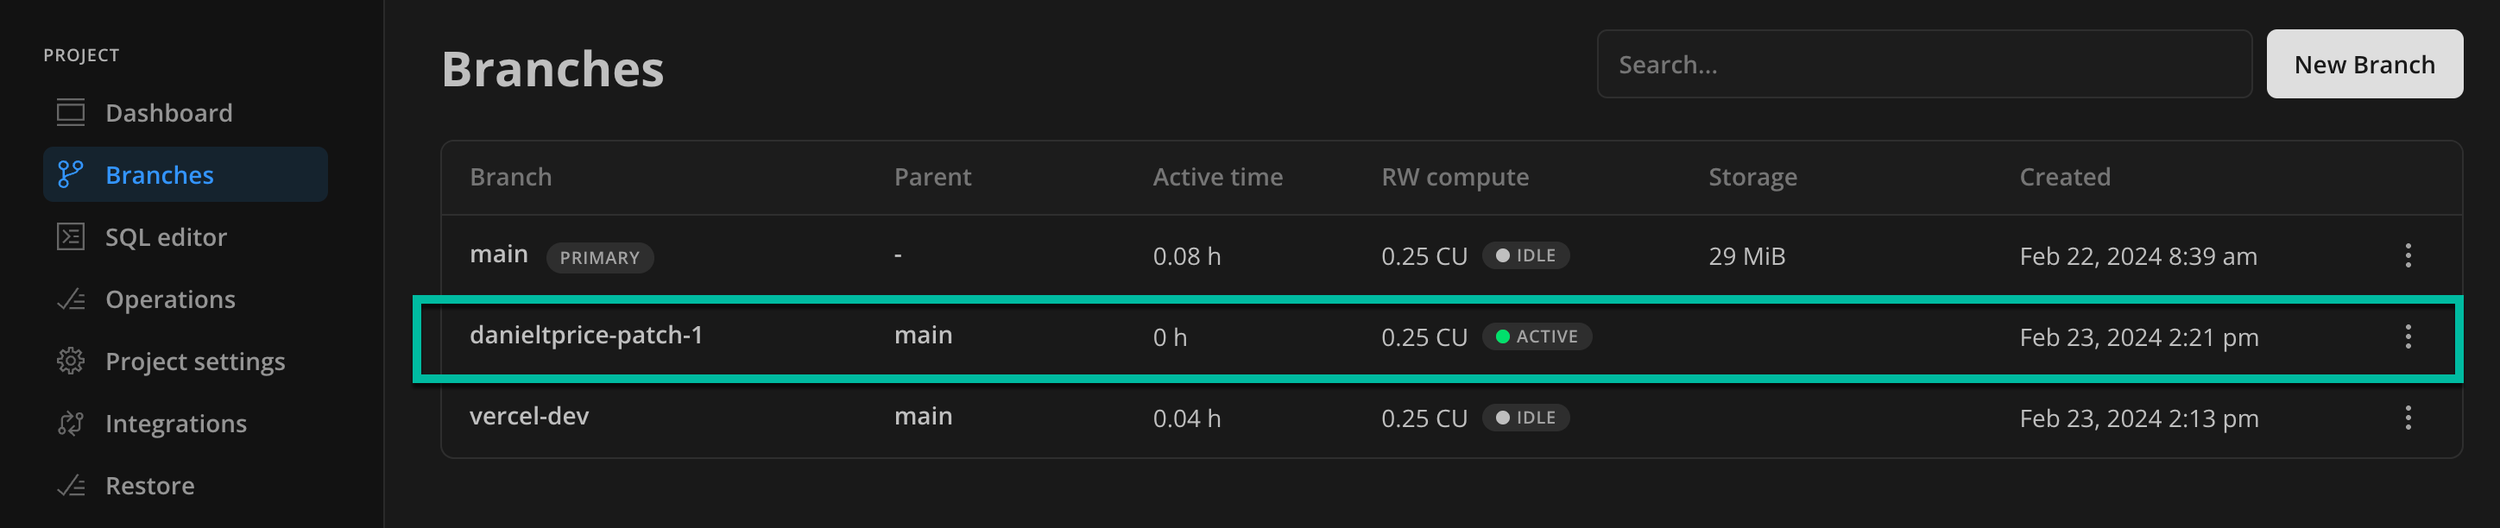
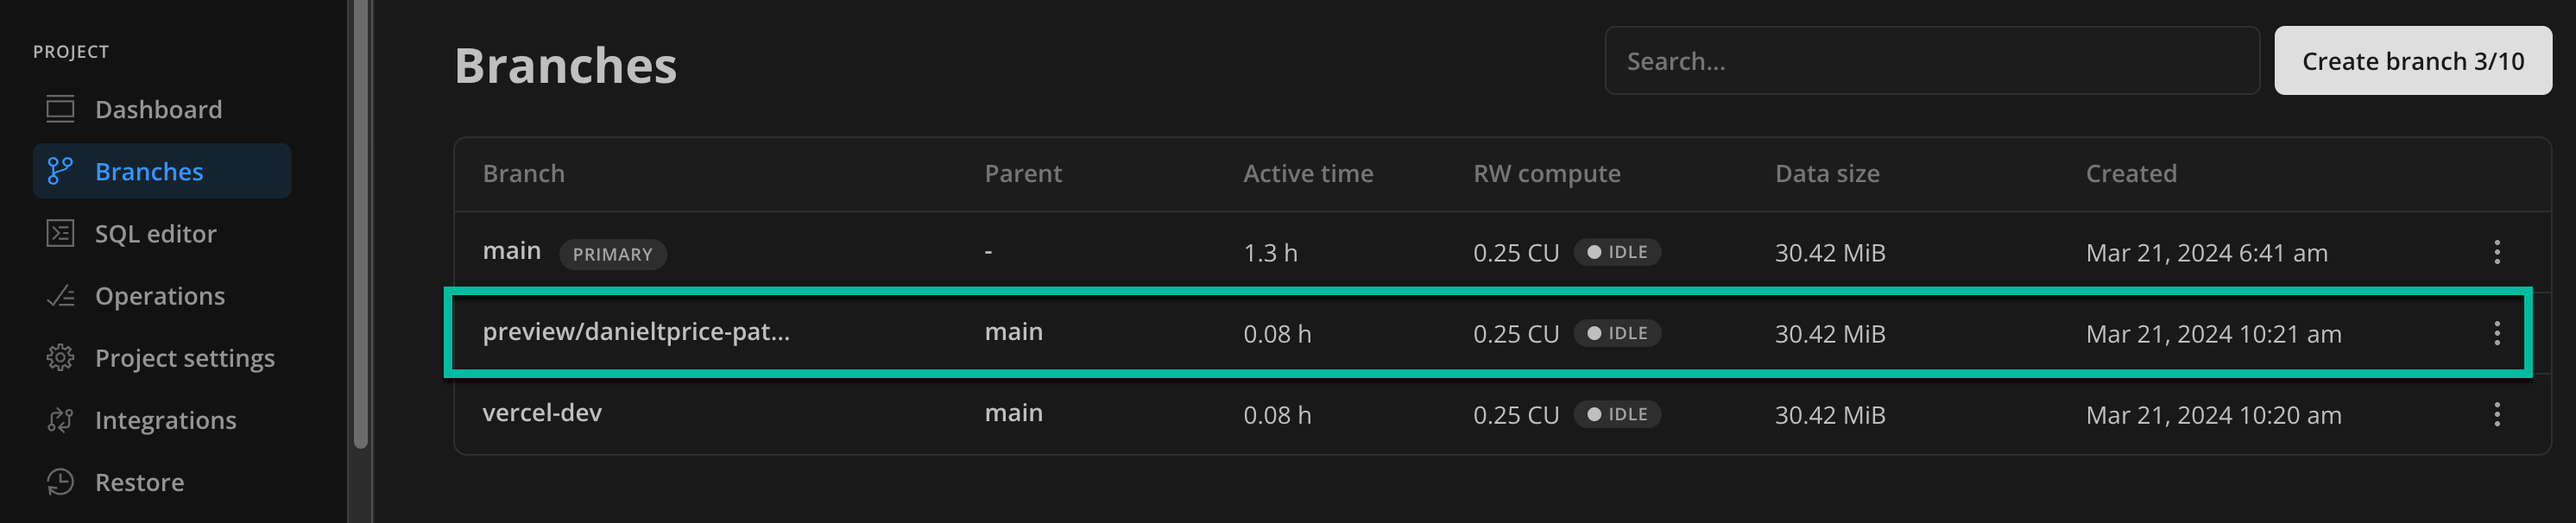
Change "Neon console" to "Neon Console" for consistency

diff --git a/content/docs/manage/roles.md b/content/docs/manage/roles.md
@@ -9,7 +9,7 @@ updatedOn: '2024-02-16T18:37:19.449Z'
 
 In Neon, roles are Postgres roles. Each Neon project is created with a default Postgres role that takes its name from your Neon account (the email, GitHub, Google, or partner account that you registered with). This role owns the ready-to-use database (`neondb`) that is created in your Neon project's primary branch.
 
-Your default Postgres role and roles created in the Neon console, API, and CLI are granted membership in the [neon_superuser](#the-neonsuperuser-role) role. Roles created with SQL from clients like [psql](/docs/connect/query-with-psql-editor), [pgAdmin](https://www.pgadmin.org/), or the [Neon SQL Editor](/docs/get-started-with-neon/query-with-neon-sql-editor) are only granted the basic [public schema privileges](/docs/manage/database-access#public-schema-privileges) granted to newly created roles in a standalone Postgres installation. These users must be selectively granted permissions for each database object. For more information, see [Manage database access](/docs/manage/database-access).
+Your default Postgres role and roles created in the Neon Console, API, and CLI are granted membership in the [neon_superuser](#the-neonsuperuser-role) role. Roles created with SQL from clients like [psql](/docs/connect/query-with-psql-editor), [pgAdmin](https://www.pgadmin.org/), or the [Neon SQL Editor](/docs/get-started-with-neon/query-with-neon-sql-editor) are only granted the basic [public schema privileges](/docs/manage/database-access#public-schema-privileges) granted to newly created roles in a standalone Postgres installation. These users must be selectively granted permissions for each database object. For more information, see [Manage database access](/docs/manage/database-access).
 
 <Admonition type="note">
 Neon is a managed Postgres service, so you cannot access the host operating system, and you can't connect using the Postgres `superuser` account like you can in a standalone Postgres installation.
@@ -21,14 +21,14 @@ In Neon, roles belong to a branch, which could be your main branch or a child br
 
 Neon supports creating and managing roles from the following interfaces:
 
-- [Neon console](#manage-roles-in-the-neon-console)
+- [Neon Console](#manage-roles-in-the-neon-console)
 - [Neon CLI](#manage-roles-with-the-neon-cli)
 - [Neon API](#manage-roles-with-the-neon-api)
 - [SQL](#manage-roles-with-sql)
 
 ## The neon_superuser role
 
-Roles created in the Neon console, CLI, or API, including the default role created with a Neon project, are granted membership in the `neon_superuser` role. Users cannot login as `neon_superuser`, but they inherit the privileges assigned to this role. The privileges and predefined role memberships granted to `neon_superuser` include:
+Roles created in the Neon Console, CLI, or API, including the default role created with a Neon project, are granted membership in the `neon_superuser` role. Users cannot login as `neon_superuser`, but they inherit the privileges assigned to this role. The privileges and predefined role memberships granted to `neon_superuser` include:
 
 - `CREATEDB`: Provides the ability to create databases.
 - `CREATEROLE`: Provides the ability to create new roles (which also means it can alter and drop roles).
@@ -49,9 +49,9 @@ You can think of roles with `neon_superuser` privileges as administrator roles. 
 Creating a database with the `neon_superuser` role, altering a database to have owner `neon_superuser`, and altering the `neon_superuser role` itself are _not_ permitted. This `NOLOGIN` role is not intended to be used directly or modified.
 </Admonition>
 
-## Manage roles in the Neon console
+## Manage roles in the Neon Console
 
-This section describes how to create, view, and delete roles in the Neon Console. All roles created in the Neon console are granted membership in the [neon_superuser](#the-neonsuperuser-role) role.
+This section describes how to create, view, and delete roles in the Neon Console. All roles created in the Neon Console are granted membership in the [neon_superuser](#the-neonsuperuser-role) role.
 
 ### Create a role
 

diff --git a/content/docs/guides/liquibase-workflow.md b/content/docs/guides/liquibase-workflow.md
@@ -72,7 +72,7 @@ To create a branch:
 
 ## Retrieve your Neon database connection strings
 
-From the [Neon console](https://console.neon.tech/app/projects), select your project and retrieve connection strings for your target and source databases from the **Connection Details** widget on the Neon **Dashboard**.
+From the [Neon Console](https://console.neon.tech/app/projects), select your project and retrieve connection strings for your target and source databases from the **Connection Details** widget on the Neon **Dashboard**.
 
 <Admonition type="note">
 The target database is the database on your `dev1` branch where you will will do your development work. Your source database is where you will apply your schema changes later, once you are satisfied with the changes on your development branch.
@@ -257,7 +257,7 @@ When you run a changeset for the first time, Liquibase automatically creates two
 - [databasechangelog](https://docs.liquibase.com/concepts/tracking-tables/databasechangelog-table.html): Tracks which changesets have been run.
 - [databasechangeloglock](https://docs.liquibase.com/concepts/tracking-tables/databasechangeloglock-table.html): Ensures only one instance of Liquibase runs at a time.
 
-You can verify these tables were created by viewing the `blog` database on your `dev1` branch on the **Tables** page in the Neon console. Select **Tables** from the sidebar.
+You can verify these tables were created by viewing the `blog` database on your `dev1` branch on the **Tables** page in the Neon Console. Select **Tables** from the sidebar.
 </Admonition>
 
 At this point, you can continue to iterate, applying schema changes to your database, until you are satisfied with the modified schema.
@@ -448,7 +448,7 @@ Liquibase command 'update' was executed successfully.
 
 </details>
 
-To ensure that all changes have been applied to the production database, you can rerun the `status`, `updatedSql`, and `diff` commands you ran above. After applying the change, there should be no differences. You can also check your databases in the **Tables** view in the Neon console to verify that the source database now has a `comments` table.
+To ensure that all changes have been applied to the production database, you can rerun the `status`, `updatedSql`, and `diff` commands you ran above. After applying the change, there should be no differences. You can also check your databases in the **Tables** view in the Neon Console to verify that the source database now has a `comments` table.
 
 <Admonition type="note">
 When you run a changeset for the first time on the source database, you will find that Liquibase automatically creates the [databasechangelog](https://docs.liquibase.com/concepts/tracking-tables/databasechangelog-table.html) and [databasechangeloglock](https://docs.liquibase.com/concepts/tracking-tables/databasechangeloglock-table.html) tracking tables that were created in your development database. These tracking tables are created on any database where you apply changesets.

diff --git a/content/docs/manage/endpoints.md b/content/docs/manage/endpoints.md
@@ -160,7 +160,7 @@ Please be aware that restarting a compute endpoint interrupts any connections cu
 
 You can restart a compute endpoint using one of the following methods:
 
-- Stop activity on your compute endpoint (stop running queries) and wait for your compute endpoint to suspend due to inactivity. By default, Neon suspends a compute after 5 minutes of inactivity. You can watch the status of your compute on the **Branches** page in the Neon console. Select your branch and monitor your compute's **Status** field. Wait for it to report an `Idle` status. The compute will restart the next time it's accessed, and the status will change to `Active`. 
+- Stop activity on your compute endpoint (stop running queries) and wait for your compute endpoint to suspend due to inactivity. By default, Neon suspends a compute after 5 minutes of inactivity. You can watch the status of your compute on the **Branches** page in the Neon Console. Select your branch and monitor your compute's **Status** field. Wait for it to report an `Idle` status. The compute will restart the next time it's accessed, and the status will change to `Active`. 
 - Issue [Suspend endpoint](https://api-docs.neon.tech/reference/suspendprojectendpoint) and [Start endpoint](https://api-docs.neon.tech/reference/startprojectendpoint) API calls. You can do this directly from the [Neon API Reference](https://api-docs.neon.tech/reference/getting-started-with-neon-api), using the **Try It!** feature. You'll need an [API key](https://neon.tech/docs/manage/api-keys#create-an-api-key).
 - Users on paid plans can temporarily set a compute's **Suspend compute after a period of inactivity** setting to 1 second to initiate a restart (the default setting is 5 minutes). See [Autosuspend configuration](/docs/manage/endpoints#auto-suspend-configuration) for instructions. After doing so, check the **Operations** page in the Neon Console to see if your compute endpoint restarted. Look for `suspend_compute` and `start_compute` actions.
 

diff --git a/content/docs/import/import-from-postgres.md b/content/docs/import/import-from-postgres.md
@@ -106,7 +106,7 @@ After migrating your data, update your applications to connect to your new datab
 
 ## Database object ownership considerations
 
-Roles created in the Neon console, including the default role created with your Neon project, are automatically granted membership in the [neon_superuser](/docs/manage/roles#the-neonsuperuser-role) role. This role can create roles and databases, select from all tables and views, and insert, update, or delete data in all tables. However, the `neon_superuser` is not a PostgreSQL `superuser`. It cannot run `ALTER OWNER` statements to grant ownership of database objects. As a result, if you granted ownership of database objects in your source database to different roles, your dump file will contain `ALTER OWNER` statements, and those statements will cause non-fatal errors when you restore data to your Neon database.
+Roles created in the Neon Console, including the default role created with your Neon project, are automatically granted membership in the [neon_superuser](/docs/manage/roles#the-neonsuperuser-role) role. This role can create roles and databases, select from all tables and views, and insert, update, or delete data in all tables. However, the `neon_superuser` is not a PostgreSQL `superuser`. It cannot run `ALTER OWNER` statements to grant ownership of database objects. As a result, if you granted ownership of database objects in your source database to different roles, your dump file will contain `ALTER OWNER` statements, and those statements will cause non-fatal errors when you restore data to your Neon database.
 
 <Admonition type="note">
 Regardless of `ALTER OWNER` statement errors, a restore operation still succeeds because assigning ownership is not necessary for the data itself to be restored. The restore operation will still create tables, import data, and create other objects.

diff --git a/content/docs/guides/flyway.md b/content/docs/guides/flyway.md
@@ -107,7 +107,7 @@ Migrating schema "PUBLIC" to version 1 - Create person table
 Successfully applied 1 migration to schema "PUBLIC" (execution time 00:00.033s)
 ```
 
-To verify that the `person` table was created, you can view it on the **Tables** page in the Neon console. Select **Tables** from the sidebar and select your database.
+To verify that the `person` table was created, you can view it on the **Tables** page in the Neon Console. Select **Tables** from the sidebar and select your database.
 
 ## Add a second migration
 
@@ -136,7 +136,7 @@ Successfully applied 1 migration to schema "public", now at version v2 (executio
 A Flyway report has been generated here: /home/alex/flyway-x.y.z/sql/report.html
 ```
 
-You can verify that the data was added by viewing the table on the **Tables** page in the Neon console. Select **Tables** from the sidebar and select your database.
+You can verify that the data was added by viewing the table on the **Tables** page in the Neon Console. Select **Tables** from the sidebar and select your database.
 
 ## View your schema migration history
 
@@ -155,7 +155,7 @@ Schema version: 2
 A Flyway report has been generated here: /home/alex/flyway-x.y.z/sql/report.html
 ```
 
-You can also view the table on the **Tables** page in the Neon console. Select **Tables** from the sidebar and select your database.
+You can also view the table on the **Tables** page in the Neon Console. Select **Tables** from the sidebar and select your database.
 
 ## Next steps
 

diff --git a/content/docs/unused/prisma-guide.md b/content/docs/unused/prisma-guide.md
@@ -194,7 +194,7 @@ found 0 vulnerabilities
 
 To view the `Elements` table that was created in your `neondb` database by the migration performed in the previous step:
 
-1. Navigate to the [Neon console](https://console.neon.tech/).
+1. Navigate to the [Neon Console](https://console.neon.tech/).
 2. Select your project.
 3. Select **Tables**.
 4. Select the `neondb` database and default `public` schema. The `Elements` table should be visible in the sidebar. The table has no data at this point. Data is added later in this guide.
@@ -249,7 +249,7 @@ You have a couple of options for adding data to the `Elements` table. You can ad
 
 ### Option A: Add data using the Neon SQL Editor
 
-1. Navigate to the [Neon console](https://console.neon.tech/).
+1. Navigate to the [Neon Console](https://console.neon.tech/).
 1. Select your project.
 1. Select the **SQL Editor**.
 1. Select the `main` branch of your project and select the `neondb` database.
@@ -425,7 +425,7 @@ Another use case for Introspection is when using plain SQL for schema changes or
 
 Let's assume your database has an extended version of the `Elements` table used in the previous steps. This table is called `Elements_ext`. Let's create that table in the Neon SQL Editor:
 
-1. Navigate to the [Neon console](https://console.neon.tech/).
+1. Navigate to the [Neon Console](https://console.neon.tech/).
 1. Select your project.
 1. Select the **SQL Editor**.
 1. Select the `main` branch of your project and select the `neondb` database.

diff --git a/content/docs/manage/projects.md b/content/docs/manage/projects.md
@@ -153,7 +153,7 @@ By default, Neon retains a history of changes for all branches in a Neon project
 
 To configure the history retention period for a project:
 
-1. Select a project in the Neon console.
+1. Select a project in the Neon Console.
 2. On the Neon **Dashboard**, select **Project settings**.
 3. Select **Storage**.
     ![History retention configuration](/docs/manage/history_retention.png)
@@ -170,7 +170,7 @@ Enabling logical replication modifies the PostgreSQL `wal_level` configuration p
 
 To enable logical replication for your project:
 
-1. Select your project in the Neon console.
+1. Select your project in the Neon Console.
 2. On the Neon **Dashboard**, select **Project settings**.
 3. Select **Beta**.
 4. Click **Enable**.
@@ -204,7 +204,7 @@ Neon supports both [IPv4](https://en.wikipedia.org/wiki/Internet_Protocol_versio
 
 To configure an allowlist:
 
-1. Select a project in the Neon console.
+1. Select a project in the Neon Console.
 2. On the Neon **Dashboard**, select **Project settings**.
 3. Select **IP Allow**.
     ![IP Allow configuration](/docs/manage/ip_allow.png)
@@ -323,7 +323,7 @@ To remove an IP configuration entirely to go back to the default "no IP restrict
 
 <TabItem>
 
-1. Select a project in the Neon console.
+1. Select a project in the Neon Console.
 2. On the Neon **Dashboard**, select **Project settings**.
 3. Select **IP Allow**.
 4. Clear the **Allowed IP addresses and ranges** field.

diff --git a/content/docs/manage/branches.md b/content/docs/manage/branches.md
@@ -68,11 +68,11 @@ Branch details shown on the branch page include:
 
 - **ID**: The branch ID. Branch IDs have a `br-` prefix.
 - **Created**: The date and time the branch was created.
-- **Active Time**: The total amount of active hours for your branch compute within the current billing period.
-- **Compute Time**: The compute hours used by the branch within the current billing period.
-- **Parent Branch**: The branch from which this branch was created (only visible for child branches).
-- **Branching point**: The point in time, in terms of data, from which the branch was created.
-- **Last data reset**: The last time the branch was reset from the parent branch.
+- **Active  Since**: The active hours used by the branch compute in the current billing period.
+- **Compute Time**: The compute hours used by the branch in the current billing period.
+- **Parent Branch**: The branch from which this branch was created (only applicable to child branches).
+- **Branching Point**: The point in time, in terms of data, from which the branch was created (only applicable to child branches).
+- **Last Data Reset**: The last time the branch was reset from the parent branch (only applicable to child branches).
 
 The branch details page also includes details about the compute endpoint associated with the branch. For more information, see [View a compute endpoint](/docs/manage/endpoints#view-a-compute-endpoint).
 

diff --git a/content/docs/manage/database-access.md b/content/docs/manage/database-access.md
@@ -9,7 +9,7 @@ updatedOn: '2023-09-15T13:00:43Z'
 
 Each Neon project is created with a default Postgres role that takes its name from your Neon account (the account you registered with). For example, if a user named "Alex" signs up for Neon, the project is created with a default role named `alex`.
 
-The default Postgres role is automatically assigned the [neon_superuser](/docs/manage/roles#the-neonsuperuser-role) role, which allows creating databases, roles, and reading and writing data in all tables, views, and sequences. Any user created with the Neon console, Neon API, or Neon CLI is also assigned the `neon_superuser` role.
+The default Postgres role is automatically assigned the [neon_superuser](/docs/manage/roles#the-neonsuperuser-role) role, which allows creating databases, roles, and reading and writing data in all tables, views, and sequences. Any user created with the Neon Console, Neon API, or Neon CLI is also assigned the `neon_superuser` role.
 
 It is good practice to reserve `neon_superuser` roles for database administration tasks like creating roles and databases. For other users, we recommend creating roles with specific sets of permissions based on application and access requirements. Then, assign the appropriate roles to your users. The roles you create should adhere to a _least privilege_ model, granting only the permissions required to accomplish their tasks.
 

diff --git a/content/changelog/2024-03-22-console.md b/content/changelog/2024-03-22-console.md
@@ -41,6 +41,10 @@ For more information, see [The neon extension](https://neon.tech/docs/extensions
 
 We added support for the [pg_partman](https://github.com/pgpartman/pg_partman) Postgres extension, which lets you create and manage time-based and number-based table partition sets.
 
+### Neon Vercel Integration enhancements
+
+Preview branches created by the Neon Vercel Integration now have a `/preview` prefix for the branch name. You can view your project's branches, including those created by the integration on the **Branches** page in the Neon Console. You can also view branches created by the integration from the Vercel integration drawer accessible from the Integration page in the Neon Console.
+
 
 ### Fixes & improvements
 
@@ -49,3 +53,4 @@ We added support for the [pg_partman](https://github.com/pgpartman/pg_partman) P
     - [Retrieving metrics for all projects](/docs/guides/partner-billing#retrieving-metrics-for-all-projects) 
 - You are now able to downgrade directly from **Scale** to **Launch** when that fits your usage needs. Previously, you needed to downgrade to Free tier first before then moving back up to Launch.
 - The Neon CLI now offers a Linux ARM64 binary, which you can find [here](https://github.com/neondatabase/neonctl/releases). For Neon CLI installation instructions, see [Neon CLI — Install and connect](/docs/reference/cli-install).
+

diff --git a/content/docs/reference/compatibility.md b/content/docs/reference/compatibility.md
@@ -20,7 +20,7 @@ Neon supports numerous Postgres extensions, and we regularly add support for mor
 
 Neon is a managed Postgres service, so you cannot access the host operating system, and you can't connect using the Postgres `superuser` account. In place of the Postgres superuser role, Neon provides a `neon_superuser` role.
 
-Roles created in the Neon console, CLI, or API, including the default role created with a Neon project, are granted membership in the `neon_superuser` role. For information about the privileges associated with this role, see [The neon_superuser role](/docs/manage/roles#the-neonsuperuser-role).
+Roles created in the Neon Console, CLI, or API, including the default role created with a Neon project, are granted membership in the `neon_superuser` role. For information about the privileges associated with this role, see [The neon_superuser role](/docs/manage/roles#the-neonsuperuser-role).
 
 Roles created in Neon with SQL syntax, from a command-line tool like `psql` or the [Neon SQL Editor](/docs/connect/query-with-psql-editor), have the same privileges as newly created roles in a standalone Postgres installation. These roles are not granted membership in the `neon_superuser` role. You must grant these roles the privileges you want them to have. For more information, see [Manage roles with SQL](/docs/manage/roles#manage-roles-with-sql).
 

diff --git a/content/docs/get-started-with-neon/signing-up.md b/content/docs/get-started-with-neon/signing-up.md
@@ -15,10 +15,10 @@ You can sign up for free and upgrade to a paid plan when you are ready to scale.
 ## Sign up
 
 Signing up for Neon is easy. Simply navigate to [https://console.neon.tech/signup](https://console.neon.tech/signup) and sign up with your email, Github, Google, or partner account.
-![Neon console sign up](/docs/get-started-with-neon/neon_signup.png)
+![Neon Console sign up](/docs/get-started-with-neon/neon_signup.png)
 
 After signing up, you are directed to the Neon Console to create your first project. Enter a name for your project, select a Postgres version, provide a database name, and select a region. Generally, you'll want to select the region closest to your application. When you're finished, click **Create project**.
-![Neon console sign up](/docs/get-started-with-neon/create_first_project.png)
+![Neon Console sign up](/docs/get-started-with-neon/create_first_project.png)
 
 You are presented with the connection details for your new project, which you can use to connect to your database from a client or application. You can save the connection details or retrieve them later from the **Connection details** widget on the Neon **Dashboard**.
 ![Connection details dialog](/docs/get-started-with-neon/connection_details_modal.png)
